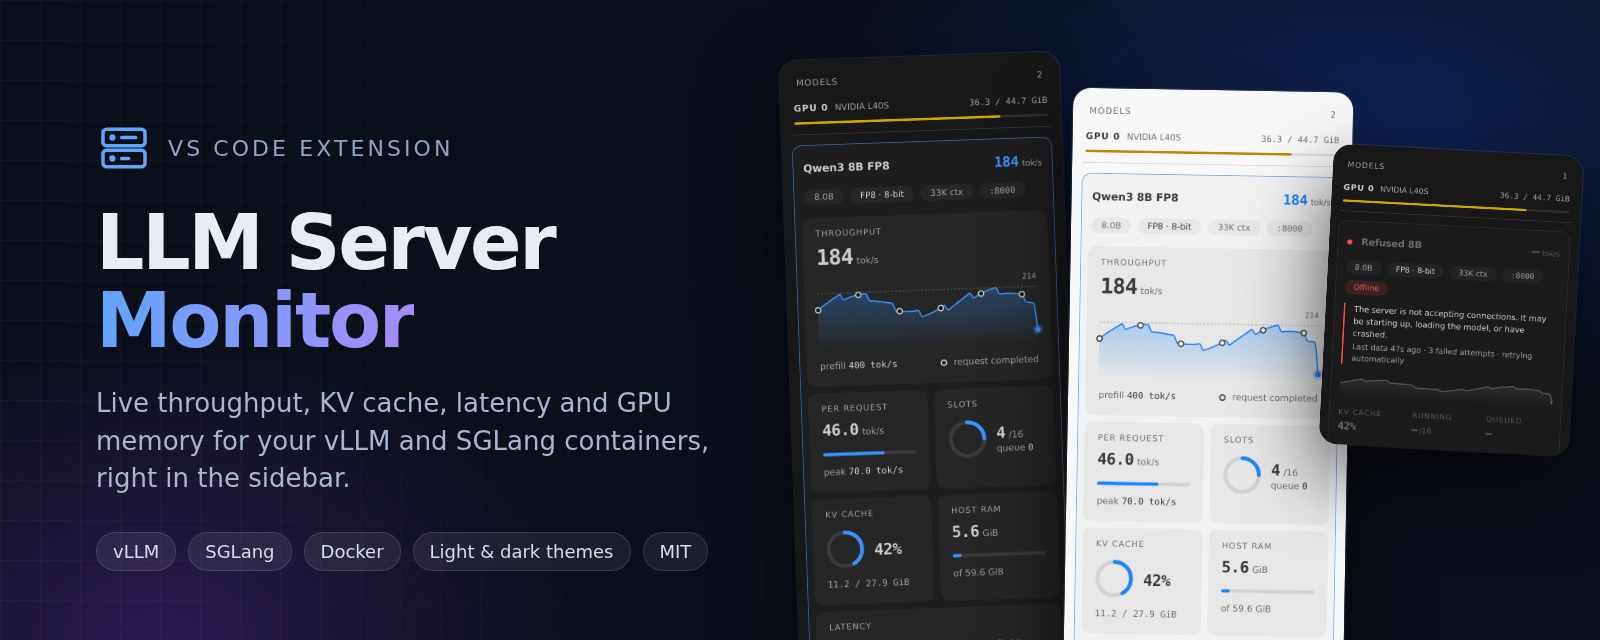
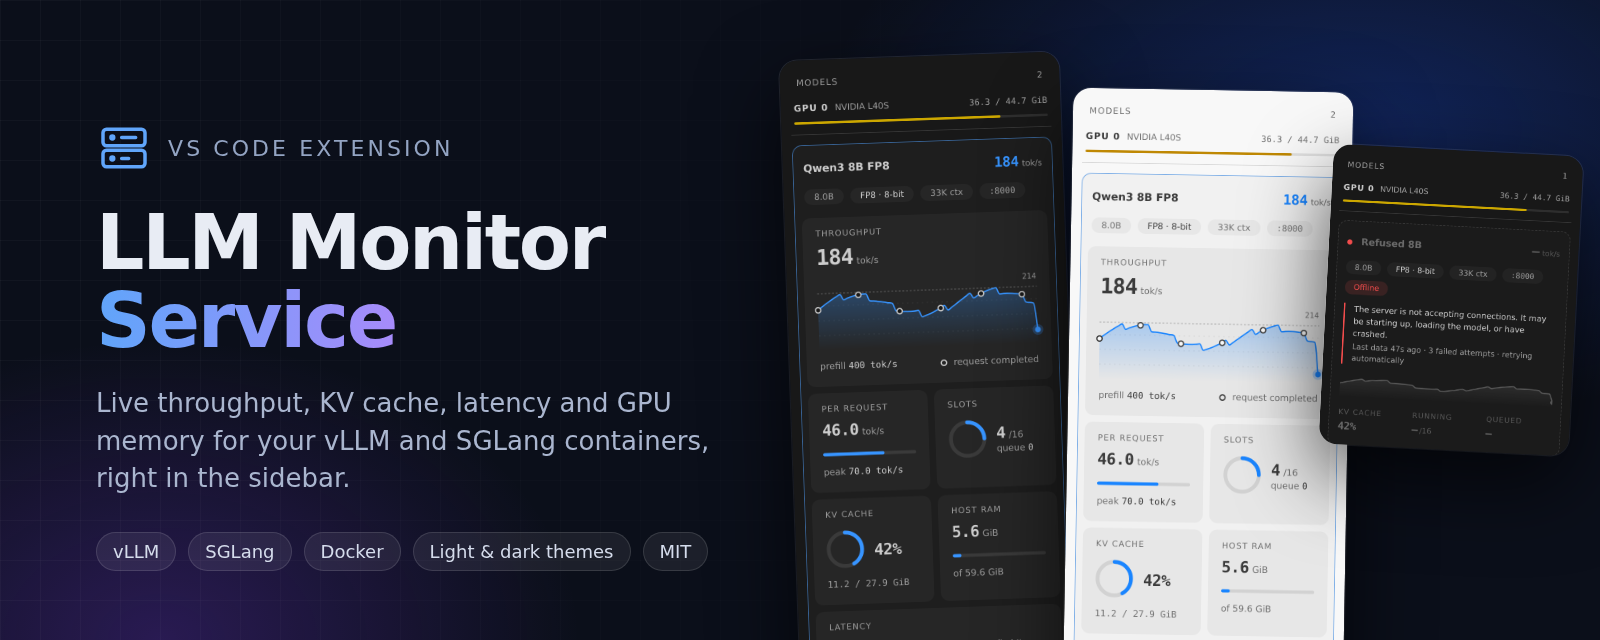
Rename extension to LLM Monitor Service (llm-monitor-service)
- Extension ID is now Minato3000.llm-monitor-service
- Transparent extension icon
- Update README, publishing guide, workflow and banner to the new name

Changed region(s): [[0.0625, 0.4375, 0.2812, 0.5625], [0.1562, 0.3125, 0.375, 0.4375]]

diff --git a/docs/banner.html b/docs/banner.html
@@ -23,7 +23,7 @@
 <div class="grid"></div>
 <div class="copy">
   <div class="logo"><svg viewBox="0 0 24 24" fill="none" stroke="currentColor" stroke-linecap="round" stroke-linejoin="round"><rect x="3" y="4" width="18" height="7" rx="1.5"/><rect x="3" y="13" width="18" height="7" rx="1.5"/><circle cx="7" cy="7.5" r=".6" fill="currentColor"/><circle cx="7" cy="16.5" r=".6" fill="currentColor"/><path d="M11 7.5h6M11 16.5h3"/></svg><span>VS Code extension</span></div>
-  <h1>LLM Server <em>Monitor</em></h1>
+  <h1>LLM Monitor <em>Service</em></h1>
   <p>Live throughput, KV cache, latency and GPU memory for your vLLM and SGLang containers, right in the sidebar.</p>
   <div class="tags"><b>vLLM</b><b>SGLang</b><b>Docker</b><b>Light &amp; dark themes</b><b>MIT</b></div>
 </div>

diff --git a/src/webview.ts b/src/webview.ts
@@ -6,7 +6,7 @@ export function getWebviewContent(): string {
   <meta http-equiv="Content-Security-Policy"
         content="default-src 'none'; style-src 'unsafe-inline'; script-src 'unsafe-inline';">
   <meta name="viewport" content="width=device-width, initial-scale=1.0">
-  <title>LLM Server Monitor</title>
+  <title>LLM Monitor Service</title>
   <style>
     :root {
       --text:    var(--vscode-foreground);

diff --git a/README.md b/README.md
@@ -1,5 +1,5 @@
 <p align="center">
-  <img src="docs/banner.png" alt="LLM Server Monitor: live vLLM and SGLang metrics in the VS Code sidebar" width="100%">
+  <img src="docs/banner.png" alt="LLM Monitor Service: live vLLM and SGLang metrics in the VS Code sidebar" width="100%">
 </p>
 
 <p align="center">
@@ -9,7 +9,7 @@
   <img alt="engines" src="https://img.shields.io/badge/engines-vLLM%20%C2%B7%20SGLang-a78bfa">
 </p>
 
-# LLM Server Monitor
+# LLM Monitor Service
 
 A VS Code sidebar panel that finds the **vLLM** and **SGLang** servers running in Docker on your machine and shows what each one is doing, live: throughput, KV cache, request slots, latency and GPU memory. No dashboards to host and no Prometheus or Grafana to set up. Start a container and its card appears.
 
@@ -64,9 +64,9 @@ The screenshots are rendered from the real panel with sample data (`npm run prev
 
 ### From a `.vsix`
 
-1. Download `llm-monitoring-service-0.1.0.vsix` from the repository's Releases page, or build it yourself (below).
-2. Run `code --install-extension llm-monitoring-service-0.1.0.vsix`, or use **Extensions → … → Install from VSIX…**.
-3. Open the **LLM Server Monitor** icon in the activity bar.
+1. Download `llm-monitor-service-0.1.0.vsix` from the repository's Releases page, or build it yourself (below).
+2. Run `code --install-extension llm-monitor-service-0.1.0.vsix`, or use **Extensions → … → Install from VSIX…**.
+3. Open the **LLM Monitor Service** icon in the activity bar.
 
 ### From source
 
@@ -74,8 +74,8 @@ The screenshots are rendered from the real panel with sample data (`npm run prev
 git clone https://github.com/Minato3000/model-monitoring-service.git
 cd model-monitoring-service
 npm install
-npm run package          # compiles and writes llm-monitoring-service-0.1.0.vsix
-code --install-extension llm-monitoring-service-0.1.0.vsix
+npm run package          # compiles and writes llm-monitor-service-0.1.0.vsix
+code --install-extension llm-monitor-service-0.1.0.vsix
 ```
 
 Press **F5** in VS Code to run the extension in a development host instead.

diff --git a/docs/PUBLISHING.md b/docs/PUBLISHING.md
@@ -7,7 +7,7 @@ The extension is published to two registries from the same `.vsix`:
 | [Visual Studio Marketplace](https://marketplace.visualstudio.com/) | VS Code | `vsce` | `VSCE_PAT` (Azure DevOps personal access token) |
 | [Open VSX](https://open-vsx.org/) | VSCodium, Cursor, Gitpod, Eclipse Theia and others | `ovsx` | `OVSX_PAT` |
 
-Both registries identify the extension as `<publisher>.<name>`, here `Minato3000.llm-monitoring-service`.
+Both registries identify the extension as `<publisher>.<name>`, here `Minato3000.llm-monitor-service`.
 
 ## One-time setup
 
@@ -50,8 +50,8 @@ In the repository, **Settings → Secrets and variables → Actions**, add:
 To publish from your own machine instead:
 
 ```bash
-npx vsce publish --no-dependencies --packagePath llm-monitoring-service-0.1.0.vsix -p "$VSCE_PAT"
-npx ovsx publish llm-monitoring-service-0.1.0.vsix -p "$OVSX_PAT"
+npx vsce publish --no-dependencies --packagePath llm-monitor-service-0.1.0.vsix -p "$VSCE_PAT"
+npx ovsx publish llm-monitor-service-0.1.0.vsix -p "$OVSX_PAT"
 ```
 
 The workflow can also be started by hand (**Actions → Publish → Run workflow**) to publish to one registry only, for example when one of the two failed.
